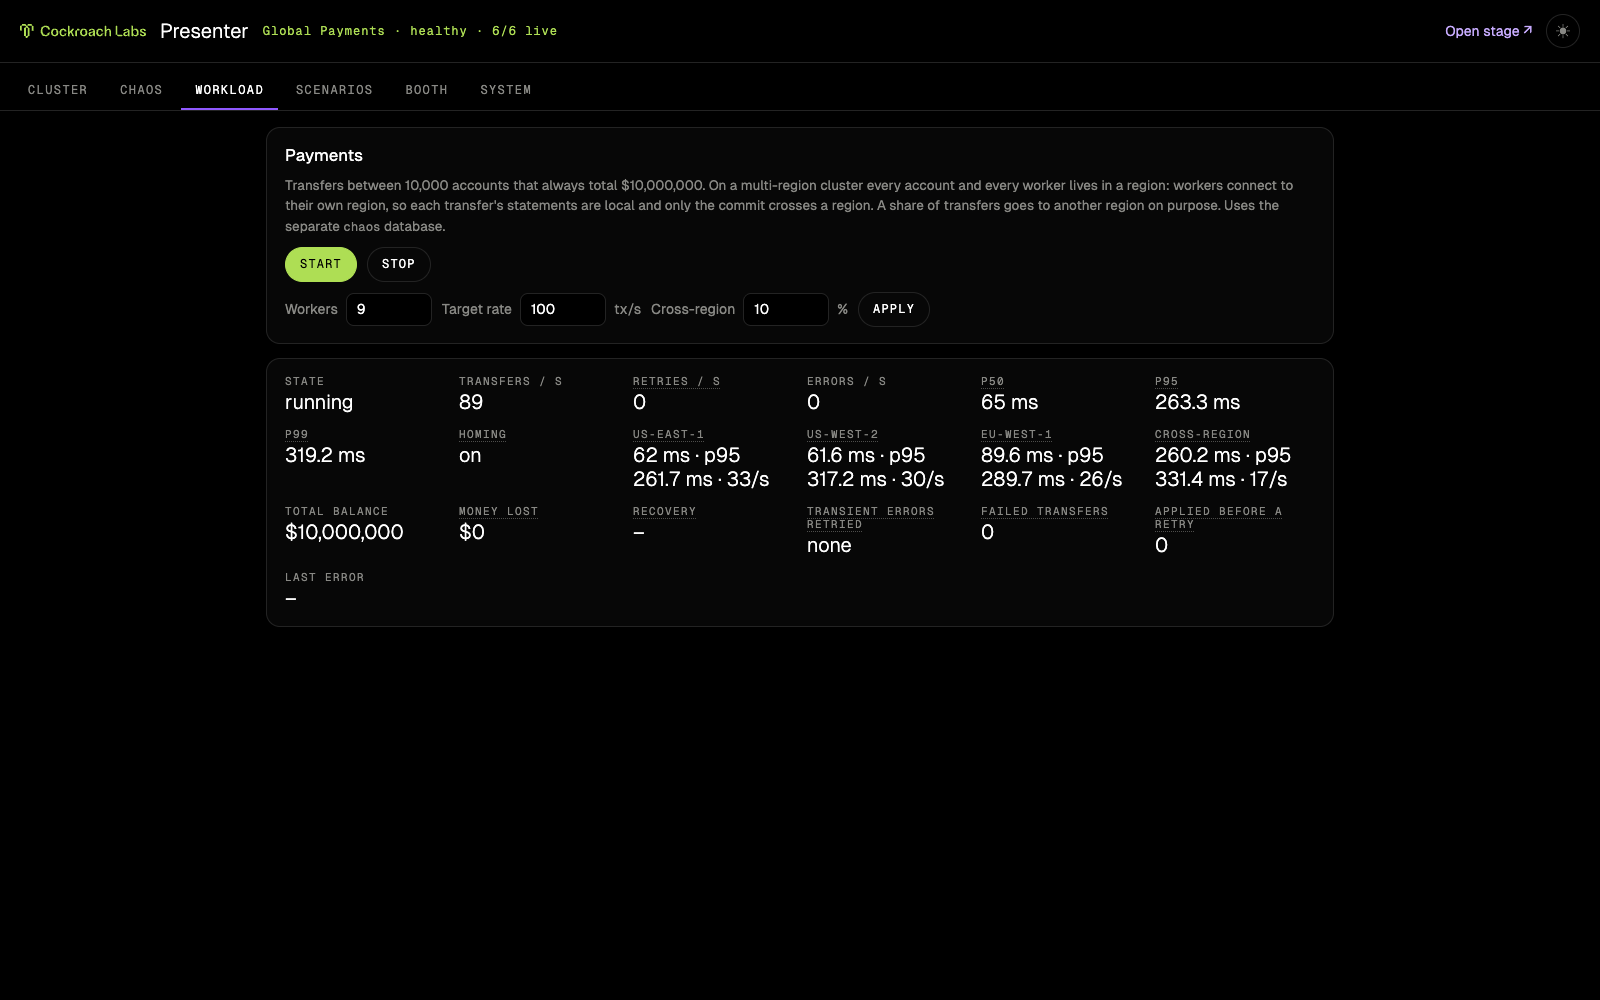
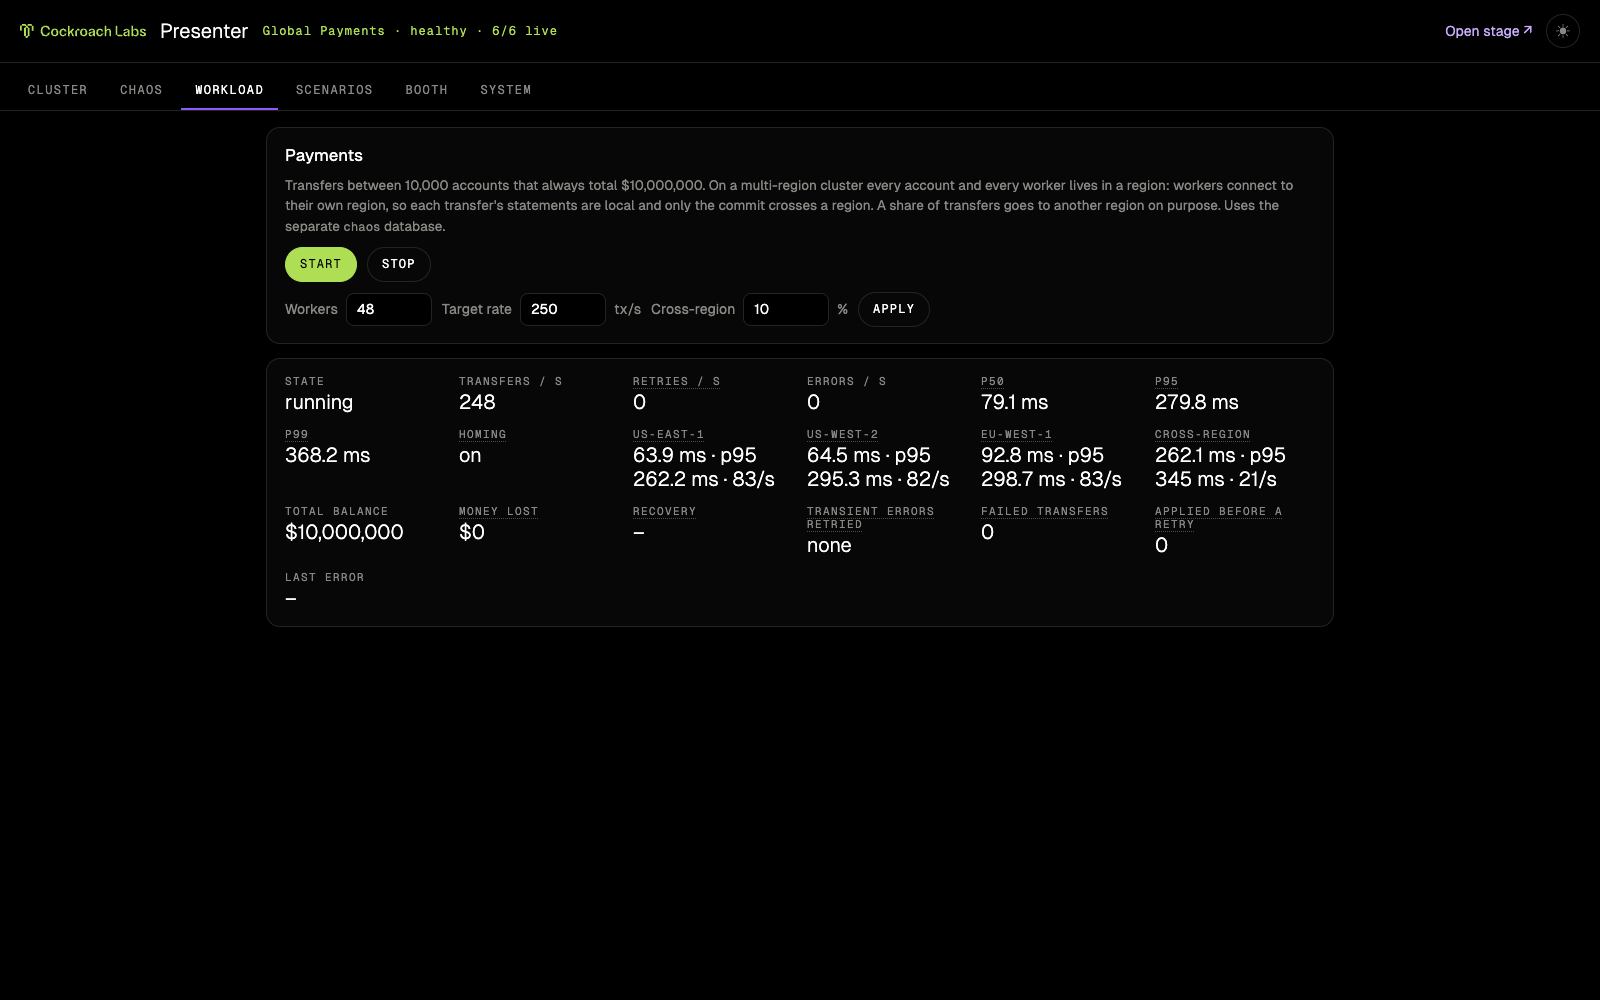
README: screenshots at full load; steadier Payments rates on the stage
- The stage and presenter screenshots now show the defaults: 48 workers at 250
  transfers/s, and a primary-region outage recovered in 8.1 s with no failed
  transfers and $0 lost
- Payments transfers/s, retries/s, errors/s and the per-home-region rates
  average the last 3 seconds, so one slow second no longer reads as a collapse
  on the big screen

Built from 3ad9ef3286e7.

diff --git a/controlplane/controlplane/workload.py b/controlplane/controlplane/workload.py
@@ -18,6 +18,7 @@ ACCOUNTS = 10_000
 START_BALANCE = 1_000
 TOTAL = ACCOUNTS * START_BALANCE
 HISTORY_SECONDS = 120
+RATE_SECONDS = 3  # rates shown on the stage average this many complete seconds: one slow second isn't a collapse
 MAX_RETRIES = 12
 TRANSFER_TIMEOUT = 10.0  # client-side limit per attempt; COMMIT can hang past statement_timeout during an outage
 CONN_MAX_AGE = 30.0  # like a pool's max lifetime: recovered nodes get traffic back within ~30 s
@@ -124,16 +125,22 @@ class Stats:
             errors = dict(self.errors_total)
 
         recent = sorted(ms for ms, _, _ in window)
-        last = done[-1] if done else empty
+        lately = done[-RATE_SECONDS:]  # only seconds since the first commit: no zeros from before the start
+
+        def rate(count: Callable[[dict], int]) -> int:
+            return round(sum(count(b) for b in lately) / len(lately)) if lately else 0
+
         by_home = {}
         for home in sorted({h for _, h, _ in window if h}):
             ms = sorted(m for m, h, _ in window if h == home)
-            by_home[home] = {"p50_ms": _pct(ms, 0.5), "p95_ms": _pct(ms, 0.95), "tps": last["homes"].get(home, 0)}
+            by_home[home] = {"p50_ms": _pct(ms, 0.5), "p95_ms": _pct(ms, 0.95), "tps": rate(lambda b: b["homes"].get(home, 0))}
         cross_ms = sorted(m for m, _, c in window if c)
         return {"history": [{k: v for k, v in h.items() if k not in ("homes", "cross")} for h in done[-HISTORY_SECONDS:]],
+                "tps": rate(lambda b: b["commits"]), "retries_s": rate(lambda b: b["retries"]),
+                "errors_s": rate(lambda b: b["errors"]),
                 "p50_ms": _pct(recent, 0.5), "p95_ms": _pct(recent, 0.95), "p99_ms": _pct(recent, 0.99),
                 "errors_total": errors, "by_home": by_home,
-                "cross_region": {"p50_ms": _pct(cross_ms, 0.5), "p95_ms": _pct(cross_ms, 0.95), "tps": last["cross"]}}
+                "cross_region": {"p50_ms": _pct(cross_ms, 0.5), "p95_ms": _pct(cross_ms, 0.95), "tps": rate(lambda b: b["cross"])}}
 
 
 class Workload:
@@ -357,13 +364,12 @@ class Workload:
     def status(self) -> dict:
         w = self.stats.window()
         history = w["history"]
-        last = history[-1] if history else {"commits": 0, "retries": 0, "errors": 0}
         if self._failure_at is not None and self._recovery is None:
             self._recovery = recovery_time(history, self._failure_at, self._baseline)
         balance = self._balance
         return {
             "running": self.running, "workers": self.workers, "rate": self.rate,
-            "tps": last["commits"], "retries_s": last["retries"], "errors_s": last["errors"],
+            "tps": w["tps"], "retries_s": w["retries_s"], "errors_s": w["errors_s"],
             "p50_ms": w["p50_ms"], "p95_ms": w["p95_ms"], "p99_ms": w["p99_ms"], "errors_total": w["errors_total"],
             "failed_total": self.stats.failed_total, "deduplicated": self.stats.deduplicated,
             "balance": balance, "expected": TOTAL,

diff --git a/tests/unit/test_workload.py b/tests/unit/test_workload.py
@@ -222,6 +222,18 @@ def test_stopping_clears_a_pending_recovery_measurement():
     assert w.status()["failure_at"] is None and w.status()["recovering"] is False
 
 
+def test_rates_average_the_last_three_seconds_so_the_stage_number_holds_steady():
+    # one slow second must not read as a collapse on the big screen: 250, 250, 156 -> 219, not 156
+    s = Stats(clock=lambda: 13.5)
+    for sec, n in ((10, 250), (11, 250), (12, 156)):
+        for i in range(n):
+            s.commit(80, "us-east-1", now=sec + 0.5, home="us-east-1", cross=i < n // 10)
+    snap = s.window(now=13.5)
+    assert snap["tps"] == 219
+    assert snap["by_home"]["us-east-1"]["tps"] == 219
+    assert snap["cross_region"]["tps"] == 22  # (25 + 25 + 15) / 3
+
+
 def test_stats_report_latency_per_home_region_and_for_cross_region_transfers():
     s = Stats(clock=lambda: 10.4)
     for ms in range(60, 70):

diff --git a/README.md b/README.md
@@ -12,10 +12,11 @@ puts a global load balancer in front of it, and gives you:
 - a built-in **Payments** workload with a $10,000,000 invariant, plus Banko AI Assistant support
 - eleven guided **scenarios**, a **booth mode** with hardware triggers, and a **motion explainer**
 
-![The stage during a primary-region outage: us-east-1 down, 4 of 6 nodes live, no unavailable ranges, $0 lost, payments recovered in 6.8 s](docs/images/stage-region-outage.png)
+![The stage during a primary-region outage: us-east-1 down, 4 of 6 nodes live, no unavailable ranges, $0 lost, payments recovered in 8.1 s](docs/images/stage-region-outage.png)
 
 *The stage during a primary-region outage under load: us-east-1 is down, every range is still available, no money
-is lost, and payments are back to normal in 6.8 s, with us-east-1's customers served from us-west-2 until it heals.*
+is lost, and payments are back to normal in 8.1 s at the full 250 transfers/s, with us-east-1's customers served
+from us-west-2 until it heals.*
 
 Everything runs locally; the stage never shows that. Nothing is sent anywhere.
 
